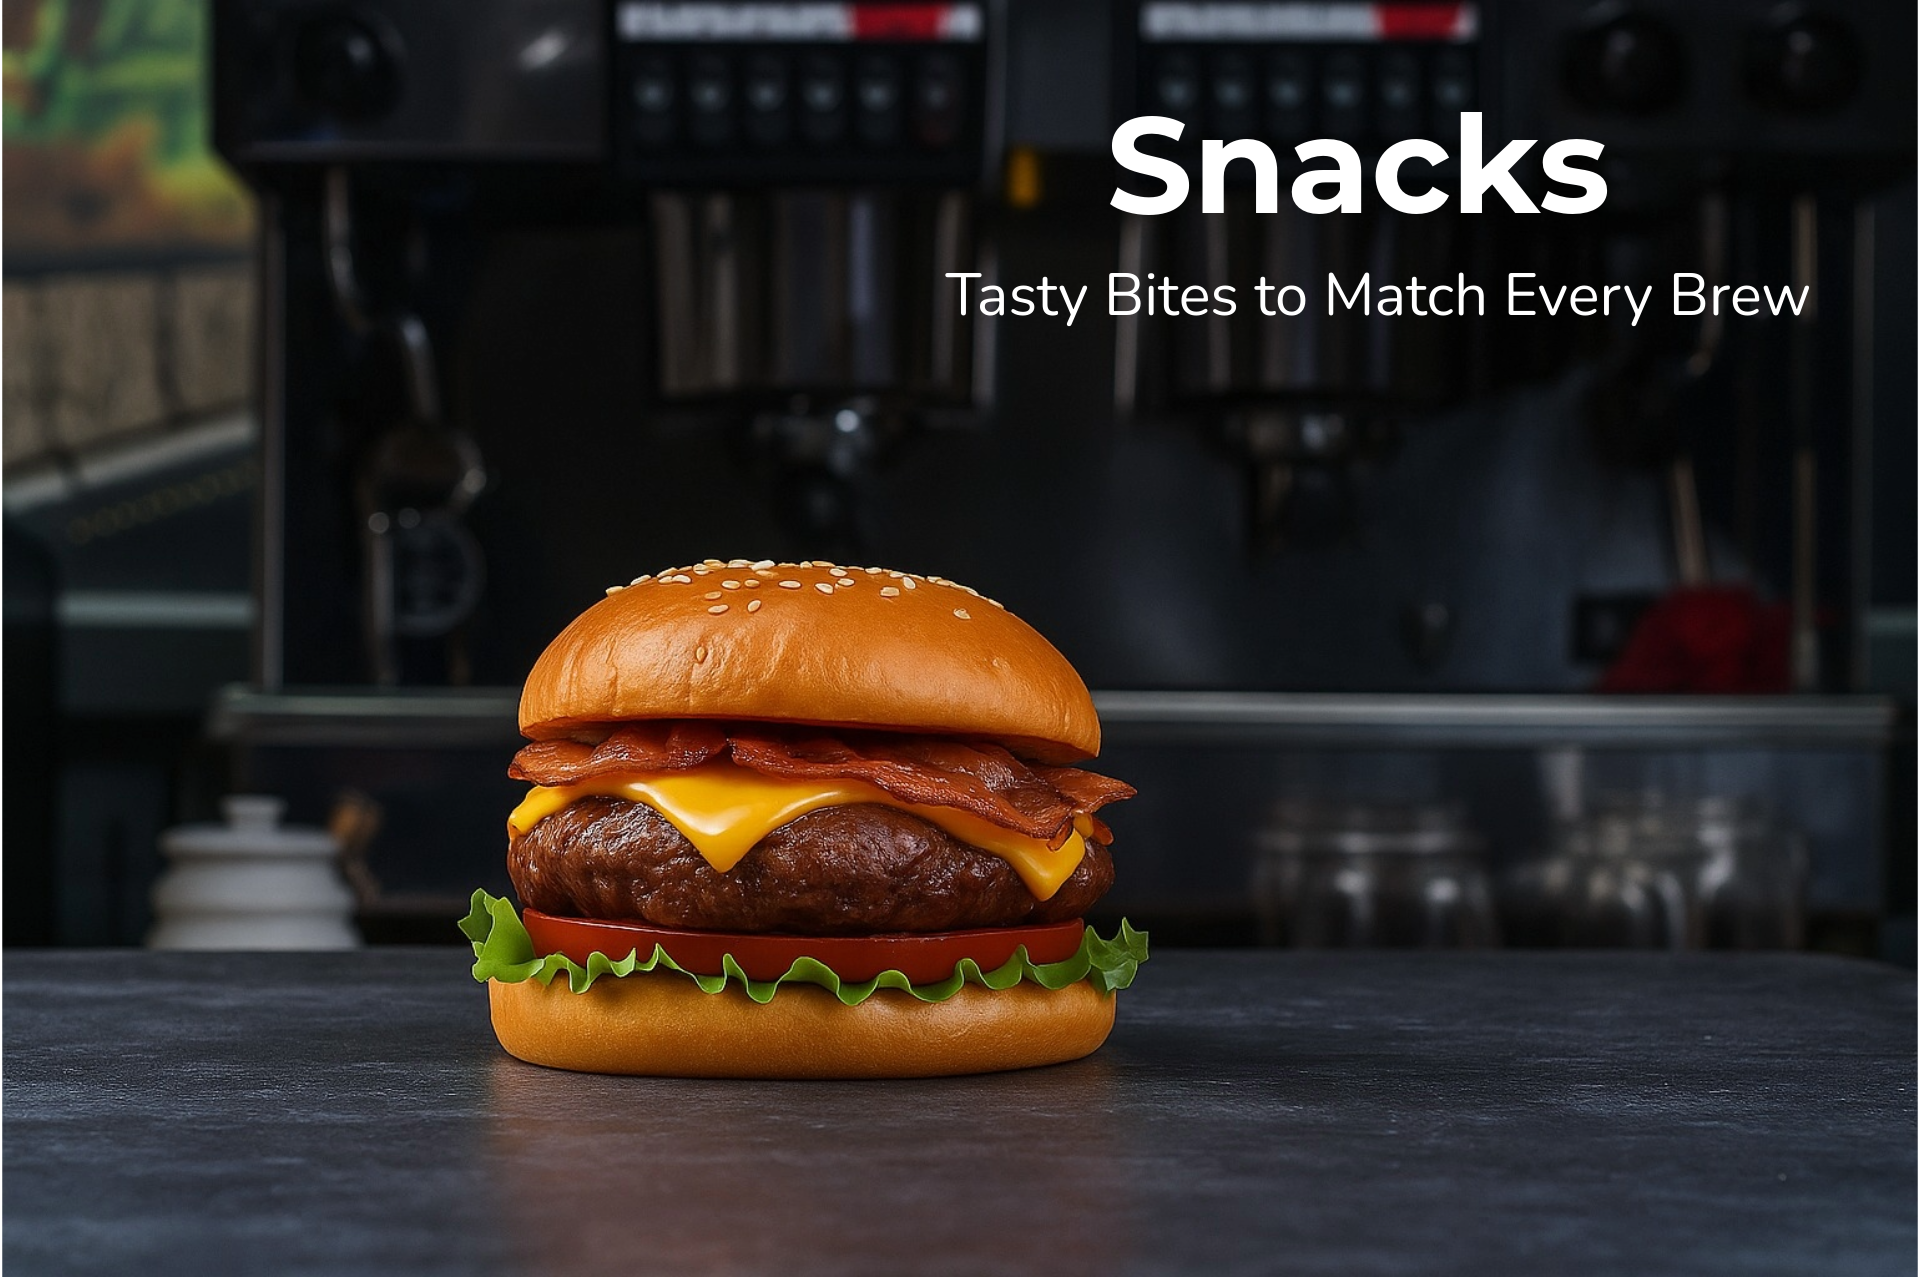
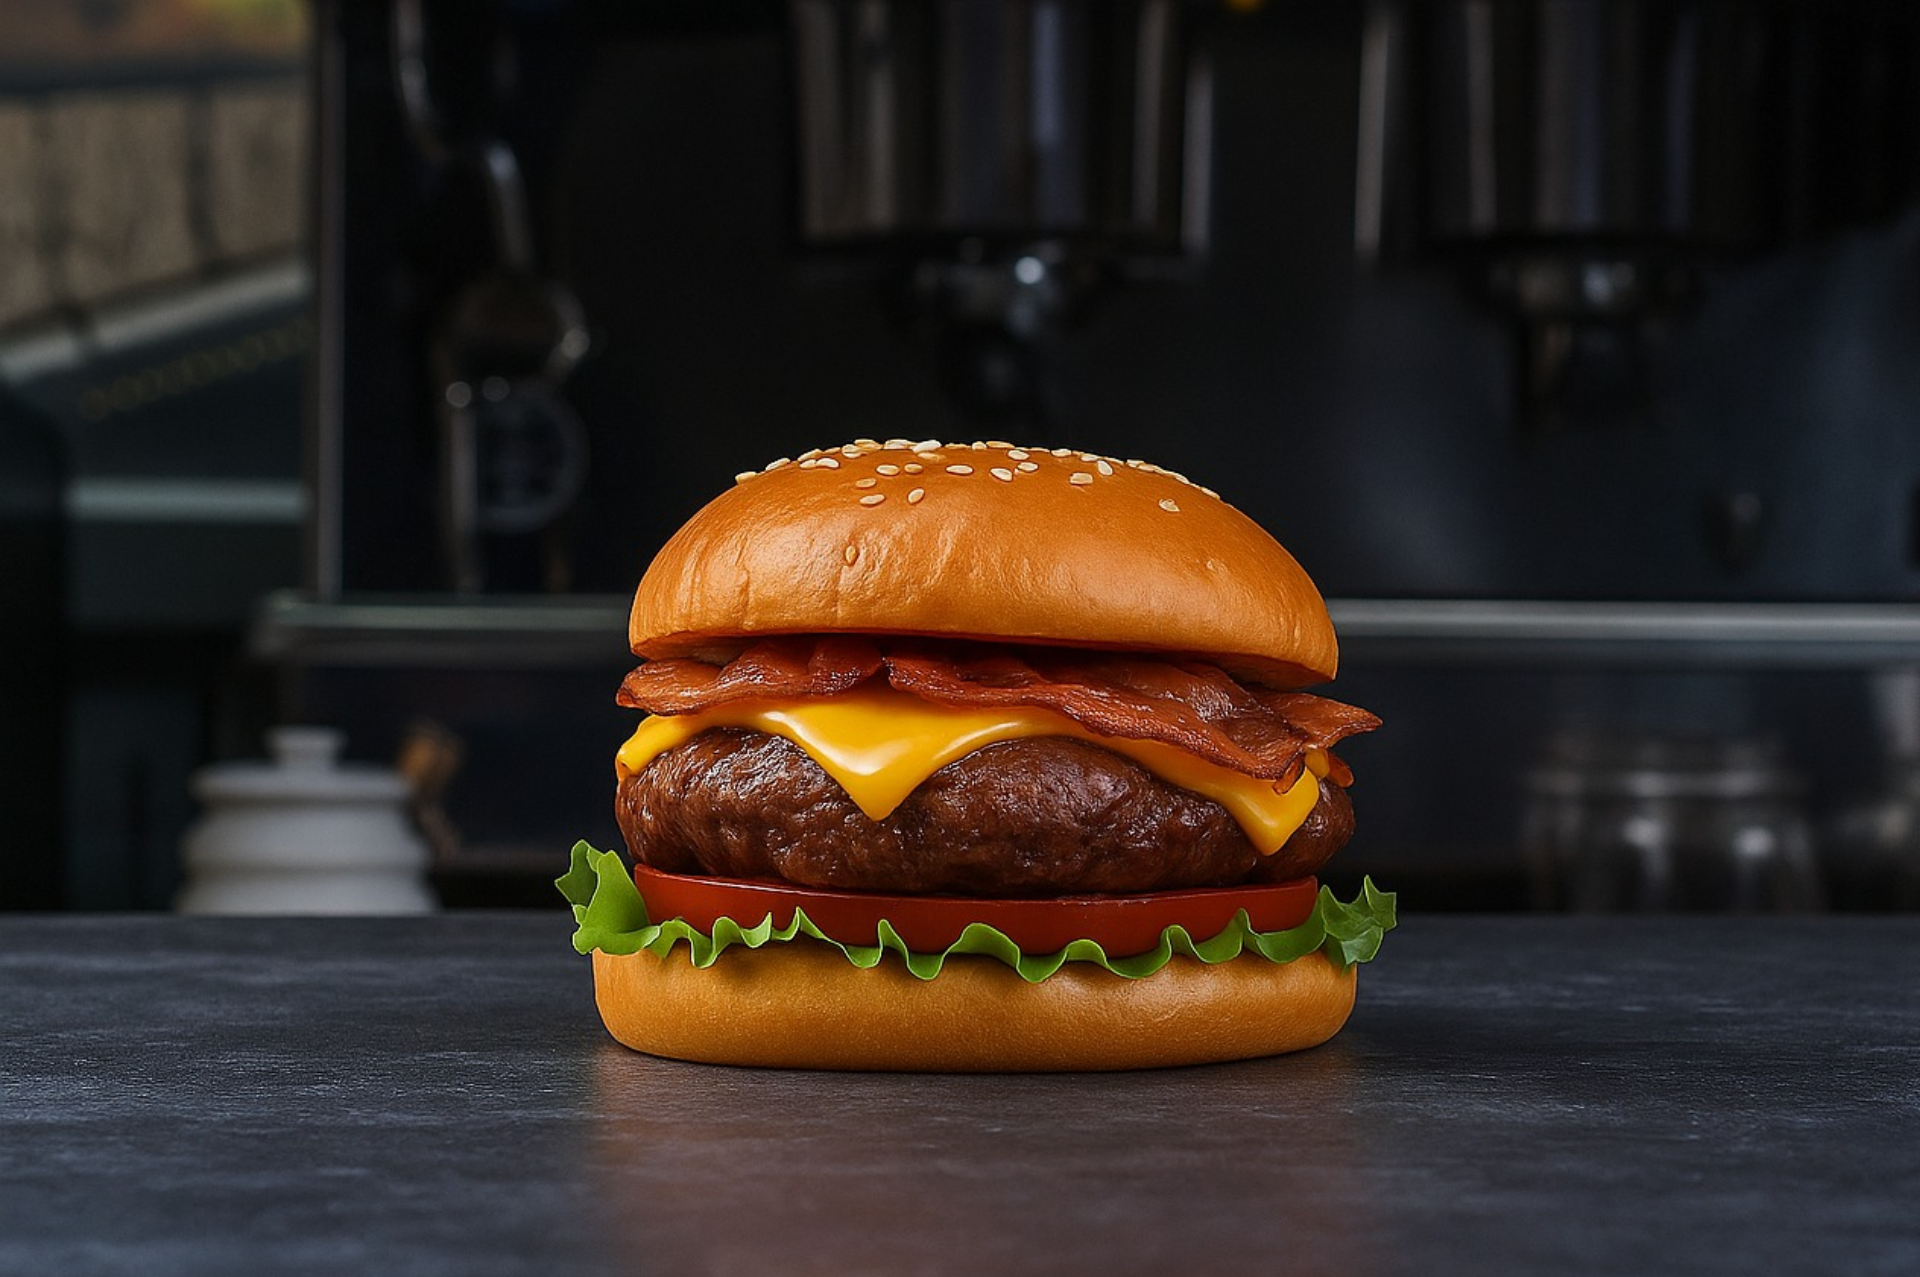
update images

diff --git a/src/pages/HomePage.jsx b/src/pages/HomePage.jsx
@@ -30,10 +30,12 @@ import image7 from '../assets/13.png';
 import image25 from '../assets/Lavender.png';
 import ph2 from '../assets/ph2.png';
 import chaipic from '../assets/chaipic.PNG'
-import mogito from '../assets/mogito.png'
-import burger from '../assets/burger.png'
-import shacks from '../assets/shacks.png'
+import mogito from '../assets/mojito.PNG'
+import burger from '../assets/burger.PNG'
+import shacks from '../assets/shacks.PNG'
 import Rooibos from '../assets/Rooibos.png'
+import chai2 from '../assets/chai2.PNG'
+import coffee2 from '../assets/coffee2.PNG'
 
 import FloatingWhatsapp from "./floatingWhatsup";
 import { TeaCard } from "../components/TeaCard";
@@ -587,7 +589,7 @@ const HomePage = () => {
               },
               {
                 image: chaipic,
-                mobileImage: image25, // Add your mobile image here
+                mobileImage: chai2, // Add your mobile image here
                 line1: "Your Tea Café. Your Brand.",
                 line2: "Start a Business That Feels Like Home",
                 buttonText: "Explore Franchise Options",
@@ -596,7 +598,7 @@ const HomePage = () => {
               },
               {
                 image: image4,
-                mobileImage: image4, // Add your mobile image here
+                mobileImage: coffee2, // Add your mobile image here
                 line1: "Simple Setup. Smart Returns.",
                 line2: "Designed for Easy Operations",
                 buttonText: "Join Our Family",
